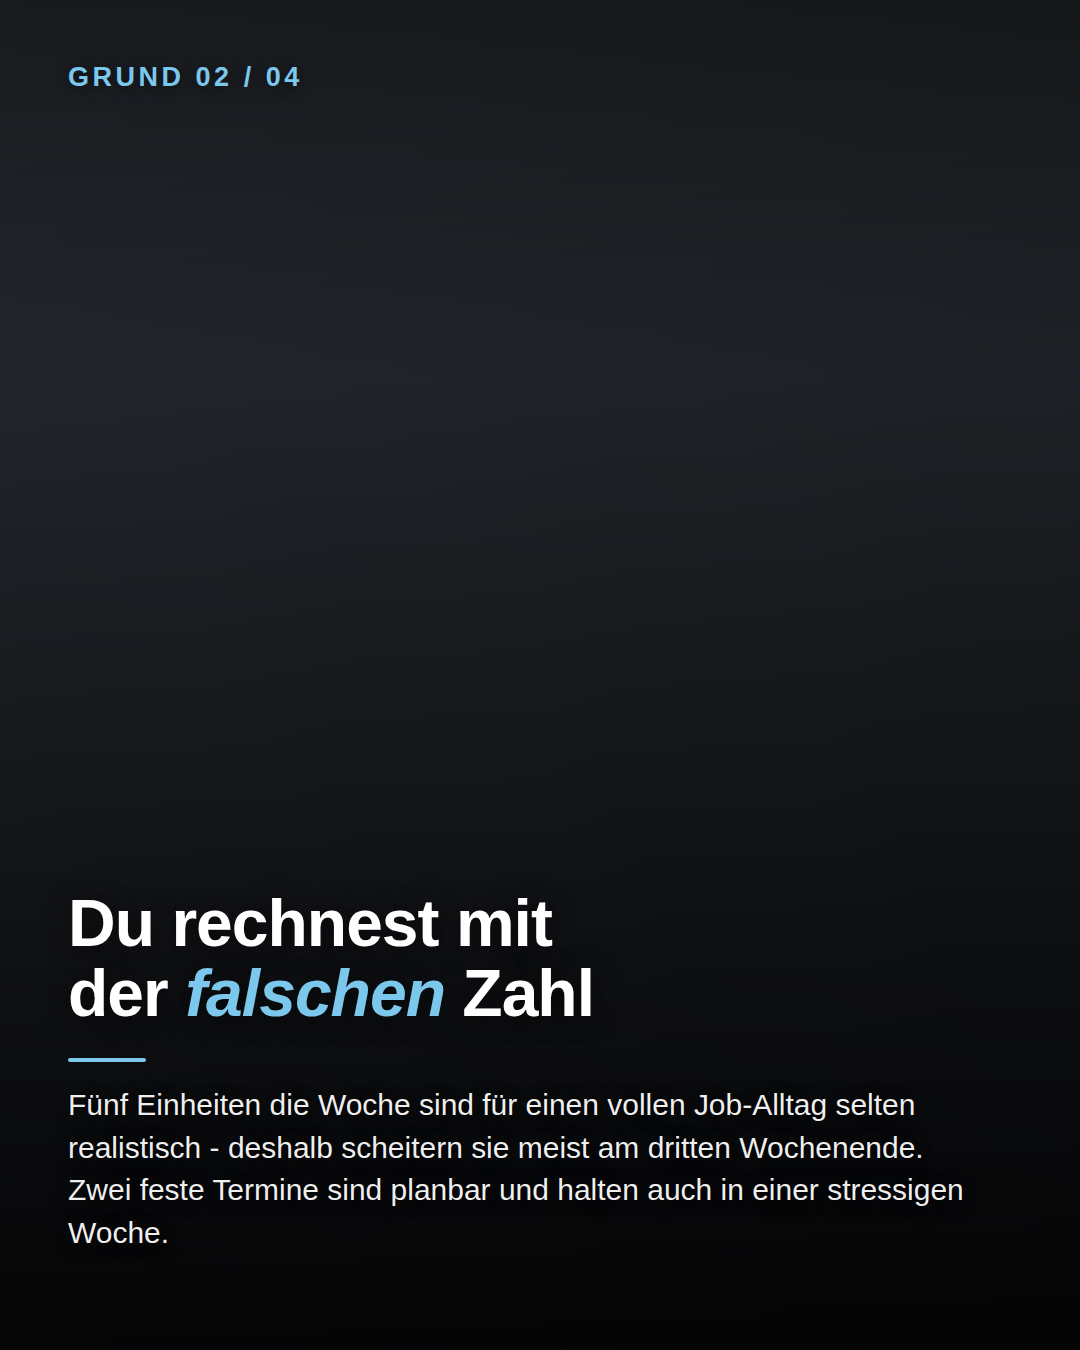
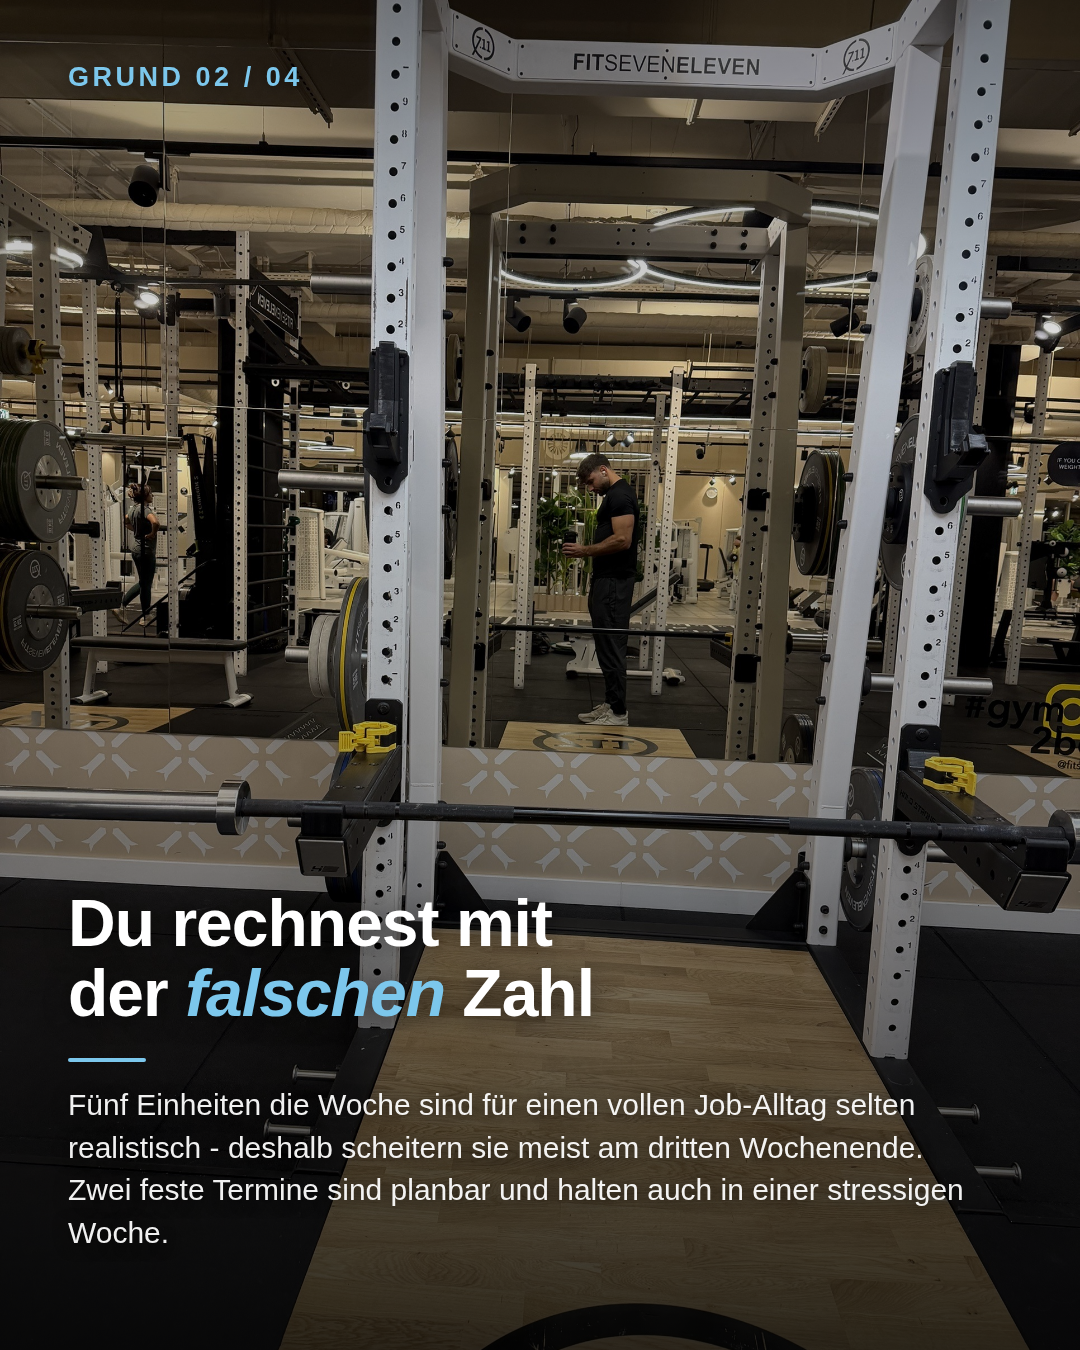
KW 39 nachgebessert: 30 Minuten, zwei Fotos, neuer Post-2-Titel
Post 1:
- Slide 4 nennt jetzt die 30-Minuten-Einheit statt 20 Minuten. 30 Minuten sind
  Aarons Minimum (config/profile.md, config/lessons.md vom 19.10.).
- Slide 3 (falsche Zahl) hatte gar kein Foto und lief auf grauem Verlauf.
  Jetzt: freies Rack im Gym, gym-rack-fitseveneleven.jpeg.
- Slide 5 (Kalender) lief auf einem Stock-Bild mit Handy und Notizbuch, das
  zum Thema nichts beitrug. Jetzt: das aufgebaute, leere Studio,
  studio-raum.jpeg — der geblockte Termin als Bild.
  Ein echtes Kalenderfoto gibt es im Pool nicht, und in Wikimedia/Openverse
  (CC0) kam zu "Kalender" nur mittelalterliche Buchmalerei.

Post 2:
- Cover heisst jetzt "3 Regeln fuers Auswaertsessen, wenn du abnehmen willst"
  statt "... die keine Woche ruinieren". Titel, Upload-Ordner, Review und
  Themen-Backlog mitgezogen.

Claude-Session: https://claude.ai/code/session_01HQCAC1gXM5ymEH3L17w63v

diff --git a/posts/2026-W39/post-1.md b/posts/2026-W39/post-1.md
@@ -22,9 +22,9 @@ verschwindet, ohne den Leser der Faulheit zu bezichtigen. Ziel: die Diagnose von
 |---|---|---|---|
 | 1 | `1/5` | Warum "keine Zeit" fast nie an der *Zeit* liegt. | Am Kartenautomaten, abends unterwegs |
 | 2 | `GRUND 01 / 04` | Es ist eine *Prioritäten*-Frage | Wohnzimmer mit Sofa am Abend (IMG_9811, eigenes Foto) |
-| 3 | `GRUND 02 / 04` | Du rechnest mit der *falschen* Zahl | KEIN PASSENDES FOTO |
+| 3 | `GRUND 02 / 04` | Du rechnest mit der *falschen* Zahl | Freies Rack im Gym, im Hintergrund trainiert jemand (eigenes Foto) |
 | 4 | `GRUND 03 / 04` | Der Umweg über die *Perfektion* | Bereitstehende Bank mit Handtuch im Gym (IMG_8261, eigenes Foto) |
-| 5 | `GRUND 04 / 04` | Am Ende zählt der *Kalender* | Handy, Notizbuch und Stift auf dem Schreibtisch — Foto: Stock (CC0, Wikimedia) |
+| 5 | `GRUND 04 / 04` | Am Ende zählt der *Kalender* | Aarons Studio, aufgebaut und leer (eigenes Foto) |
 
 **Foto-Begründungen:**
 
@@ -35,16 +35,19 @@ verschwindet, ohne den Leser der Faulheit zu bezichtigen. Ziel: die Diagnose von
    den Ort, an dem dieser Abend verbracht wird. Ersetzt das Stock-Bild mit dem
    Fernseher. (`IMG_9811.jpeg`)
 3. Grund 03 — Zu sehen: eine bereitstehende Bank mit Handtuch, Scheiben
-   aufgelegt. Slide: "Die 20-Minuten-Einheit, die tatsächlich stattfindet,
+   aufgelegt. Slide: "Die 30-Minuten-Einheit, die tatsächlich stattfindet,
    schlägt die 90-Minuten-Einheit, die nur geplant war." Das Foto zeigt genau
    die Einheit, die stattfindet. (`IMG_8261.jpeg`)
-4. Grund 04 — Zu sehen: Handy, Notizbuch und Stift auf einem Holztisch.
-   Slide: Termine, die wirklich im Kalender stehen. Bleibt Stock, weil im Pool
-   kein eigenes Kalender- oder Planer-Foto liegt. (`stock/frei-handy-01.jpeg`)
-5. Grund 02 — Weiterhin kein passendes Foto. Gebraucht würde eine gepackte
-   Sporttasche an der Wohnungstür oder ein Kalender mit zwei eingetragenen
-   Terminen. Beides liegt nicht im Pool; ein halb passendes Bild wäre hier
-   schlechter als der Verlauf.
+4. Grund 04 — Zu sehen: Aarons Studio, aufgebaut und leer, Tisch und Stuhl
+   stehen bereit. Slide: "Nicht die Absicht, sondern der Termin, der wirklich
+   im Kalender steht." Der Raum ist der geblockte Termin — er wartet, ob jemand
+   kommt oder nicht. Ersetzt das Stock-Bild mit Handy und Notizbuch, das zum
+   Thema Kalender nichts beigetragen hat. (`studio-raum.jpeg`)
+5. Grund 02 — Zu sehen: ein freies Rack im Gym, im Hintergrund trainiert
+   jemand. Slide: "Fünf Einheiten die Woche sind selten realistisch, zwei feste
+   Termine sind planbar." Das Foto zeigt die Einheit, die tatsächlich
+   eingeplant werden kann. Ersetzt den grauen Verlauf.
+   (`gym-rack-fitseveneleven.jpeg`)
 
 ## Caption
 
@@ -74,8 +77,8 @@ keine
 
 ## Offene Punkte
 
-- Slides 3 und 4 haben kein Foto und rendern auf grauem Verlauf. Was fehlt,
-  steht oben bei den Foto-Begründungen.
+- Jetzt sind alle fünf Slides bebildert, alle mit deinen eigenen Fotos. Die
+  beiden Stock-Bilder sind raus.
 - Grund 02 nennt "fünf Einheiten die Woche" als unrealistisch und "zwei feste
   Termine" als Alternative — das ist deine Coaching-Erfahrung, keine
   Studienaussage. Falls du andere Zahlen nennst, sag Bescheid.

diff --git a/FERTIG-ZUM-HOCHLADEN/2026-W39/REVIEW.md b/FERTIG-ZUM-HOCHLADEN/2026-W39/REVIEW.md
@@ -1,5 +1,27 @@
 # Review — Woche 2026-W39
 
+## Update 19.10.2026: Nachbesserungen auf deine Rückmeldung
+
+- **Post 1, Slide 4:** "20-Minuten-Einheit" → **30-Minuten-Einheit**. 30 Minuten
+  sind dein Minimum, 20 Minuten hätten deinen eigenen Ansatz unterboten
+  (steht seit dem 19.10. auch in `config/profile.md` und `config/lessons.md`).
+- **Post 1, Slide 3** (falsche Zahl) hatte gar kein Foto und rendert jetzt auf
+  einem freien Rack im Gym (`gym-rack-fitseveneleven.jpeg`).
+- **Post 1, Slide 5** (Kalender) lief auf einem Stock-Bild mit Handy und
+  Notizbuch, das zum Thema nichts beitrug. Jetzt: dein aufgebautes, leeres
+  Studio (`studio-raum.jpeg`) — der geblockte Termin als Bild.
+- **Post 2, Cover:** "3 Regeln fürs Auswärtsessen, die keine Woche ruinieren"
+  → **"3 Regeln fürs Auswärtsessen, wenn du abnehmen willst"**. Titel, Ordner
+  und Backlog-Eintrag sind mitgezogen.
+
+Ein eigenes Kalender- oder Planer-Foto gibt es im Pool weiterhin nicht, und in
+den freien Quellen (Wikimedia/Openverse, CC0) kam zu "Kalender" nichts
+Brauchbares — nur mittelalterliche Handschriften. Falls du mal einen Blick in
+deinen geblockten Wochenkalender fotografierst, wäre das für solche Slides das
+richtige Bild.
+
+Die Abschnitte unten beschreiben den Stand davor.
+
 ## Update 30.09.2026: Fotos neu zugeordnet
 
 Auf deine Vorgabe hin muss jedes Foto die Situation zeigen, über die der
@@ -26,7 +48,7 @@ Zwei Posts statt drei. Grund: der Fotopool ist praktisch leer — siehe unten.
 | Post | Thema | Warum |
 |---|---|---|
 | 1 | Warum "keine Zeit" fast nie an der Zeit liegt | Adressiert direkt die häufigste Selbstdiagnose der Zielgruppe ("keine Zeit für Training") und verschiebt sie auf Priorität statt Zeitmenge |
-| 2 | 3 Regeln fürs Auswärtsessen, die keine Woche ruinieren | Nimmt die Alles-oder-nichts-Angst vorm Essengehen — normaler Alltag der Zielgruppe, kein Sonderfall |
+| 2 | 3 Regeln fürs Auswärtsessen, wenn du abnehmen willst | Nimmt die Alles-oder-nichts-Angst vorm Essengehen — normaler Alltag der Zielgruppe, kein Sonderfall |
 
 Beide neu, unterschiedliche Kategorien (Zeit und Aufwand / Ernährung im
 Alltag), keine Überschneidung mit W35, W37 oder W38. Bewusst NICHT gewählt:

diff --git a/posts/2026-W39/_REVIEW.md b/posts/2026-W39/_REVIEW.md
@@ -1,5 +1,27 @@
 # Review — Woche 2026-W39
 
+## Update 19.10.2026: Nachbesserungen auf deine Rückmeldung
+
+- **Post 1, Slide 4:** "20-Minuten-Einheit" → **30-Minuten-Einheit**. 30 Minuten
+  sind dein Minimum, 20 Minuten hätten deinen eigenen Ansatz unterboten
+  (steht seit dem 19.10. auch in `config/profile.md` und `config/lessons.md`).
+- **Post 1, Slide 3** (falsche Zahl) hatte gar kein Foto und rendert jetzt auf
+  einem freien Rack im Gym (`gym-rack-fitseveneleven.jpeg`).
+- **Post 1, Slide 5** (Kalender) lief auf einem Stock-Bild mit Handy und
+  Notizbuch, das zum Thema nichts beitrug. Jetzt: dein aufgebautes, leeres
+  Studio (`studio-raum.jpeg`) — der geblockte Termin als Bild.
+- **Post 2, Cover:** "3 Regeln fürs Auswärtsessen, die keine Woche ruinieren"
+  → **"3 Regeln fürs Auswärtsessen, wenn du abnehmen willst"**. Titel, Ordner
+  und Backlog-Eintrag sind mitgezogen.
+
+Ein eigenes Kalender- oder Planer-Foto gibt es im Pool weiterhin nicht, und in
+den freien Quellen (Wikimedia/Openverse, CC0) kam zu "Kalender" nichts
+Brauchbares — nur mittelalterliche Handschriften. Falls du mal einen Blick in
+deinen geblockten Wochenkalender fotografierst, wäre das für solche Slides das
+richtige Bild.
+
+Die Abschnitte unten beschreiben den Stand davor.
+
 ## Update 30.09.2026: Fotos neu zugeordnet
 
 Auf deine Vorgabe hin muss jedes Foto die Situation zeigen, über die der
@@ -26,7 +48,7 @@ Zwei Posts statt drei. Grund: der Fotopool ist praktisch leer — siehe unten.
 | Post | Thema | Warum |
 |---|---|---|
 | 1 | Warum "keine Zeit" fast nie an der Zeit liegt | Adressiert direkt die häufigste Selbstdiagnose der Zielgruppe ("keine Zeit für Training") und verschiebt sie auf Priorität statt Zeitmenge |
-| 2 | 3 Regeln fürs Auswärtsessen, die keine Woche ruinieren | Nimmt die Alles-oder-nichts-Angst vorm Essengehen — normaler Alltag der Zielgruppe, kein Sonderfall |
+| 2 | 3 Regeln fürs Auswärtsessen, wenn du abnehmen willst | Nimmt die Alles-oder-nichts-Angst vorm Essengehen — normaler Alltag der Zielgruppe, kein Sonderfall |
 
 Beide neu, unterschiedliche Kategorien (Zeit und Aufwand / Ernährung im
 Alltag), keine Überschneidung mit W35, W37 oder W38. Bewusst NICHT gewählt:

diff --git a/posts/2026-W39/post-2.md b/posts/2026-W39/post-2.md
@@ -7,7 +7,7 @@ zielgruppen-schmerz: "Ich trainiere ja — warum passiert trotzdem nichts?"
 render: post-2.slides.json → post-2-slides/
 ---
 
-# 3 Regeln fürs Auswärtsessen, die keine Woche ruinieren
+# 3 Regeln fürs Auswärtsessen, wenn du abnehmen willst
 
 ## Warum dieses Thema
 
@@ -21,7 +21,7 @@ nächsten Tag.
 
 | # | Zähler | Headline | Foto |
 |---|---|---|---|
-| 1 | `1/4` | 3 Regeln fürs Auswärtsessen, die keine Woche *ruinieren*. | Aaron unterwegs mit Getränk in der Hand (DSC06682, eigenes Foto) |
+| 1 | `1/4` | 3 Regeln fürs Auswärtsessen, wenn du *abnehmen* willst. | Aaron unterwegs mit Getränk in der Hand (DSC06682, eigenes Foto) |
 | 2 | `REGEL 01 / 03` | Vorher nicht *hungrig* hinsetzen | Skyr mit Brombeeren in dunkler Schale — Foto: Stock (CC0, Wikimedia) |
 | 3 | `REGEL 02 / 03` | Eine *Entscheidung*, nicht der ganze Abend | Ein Stück Torte im Café — Foto: Stock (CC0, Wikimedia) |
 | 4 | `REGEL 03 / 03` | Der *nächste* Tag zählt mehr als der Abend | Normales Frühstück mit Toast, Saft und Kaffee — Foto: Stock (CC0, Wikimedia) |

diff --git a/config/themen-backlog.md b/config/themen-backlog.md
@@ -52,7 +52,7 @@ oben steht, wird zuerst genommen.
 | 2026-W38 | 4 Situationen im Bürotag, die dich ausbremsen | posts/2026-W38/post-1.md |
 | 2026-W38 | Motivation oder System | posts/2026-W38/post-2.md |
 | 2026-W39 | Warum "keine Zeit" fast nie an der Zeit liegt | posts/2026-W39/post-1.md |
-| 2026-W39 | 3 Regeln fürs Auswärtsessen, die keine Woche ruinieren | posts/2026-W39/post-2.md |
+| 2026-W39 | 3 Regeln fürs Auswärtsessen, wenn du abnehmen willst | posts/2026-W39/post-2.md |
 | 2026-W41 | Was du auf Geschäftsreise wirklich brauchst | posts/2026-W41/post-1.md |
 | 2026-W41 | 4 Wege, Bewegung in den Bürotag zu schmuggeln | posts/2026-W41/post-2.md |
 | 2026-W42 | 3 Frühstücke, die unter 5 Minuten fertig sind | posts/2026-W42/post-1.md |

diff --git a/config/foto-historie.md b/config/foto-historie.md
@@ -45,7 +45,8 @@ die neu verwendeten Dateien ein.
 
 | 2026-W39 | alltag-automat-abends.jpeg | P1 Cover |
 | 2026-W39 | stock/frei-bildschirm-03.jpeg | P1 Grund 01 (Prioritäten) |
-| 2026-W39 | stock/frei-handy-01.jpeg | P1 Grund 04 (Kalender) |
+| 2026-W39 | studio-raum.jpeg | P1 Grund 04 (Kalender), Nachbesserung 19.10. |
+| 2026-W39 | gym-rack-fitseveneleven.jpeg | P1 Grund 02 (falsche Zahl), Nachbesserung 19.10. |
 | 2026-W39 | stock/frei-restaurant-05.jpeg | P2 Cover |
 | 2026-W39 | stock/frei-skyr-02.jpeg | P2 Regel 01 |
 | 2026-W39 | stock/frei-kuchen-01.jpeg | P2 Regel 02 |

diff --git a/FERTIG-ZUM-HOCHLADEN/2026-W39/UEBERSICHT.md b/FERTIG-ZUM-HOCHLADEN/2026-W39/UEBERSICHT.md
@@ -4,6 +4,6 @@ Zwei Posts, fertig zum Hochladen. Je Post ein Ordner mit den
 Slides in Reihenfolge und der Caption als Textdatei.
 
 - **1 — Warum "keine Zeit" fast nie an der Zeit liegt** · 5 Slides  ⚠ siehe NOCH-ZU-PRUEFEN.txt
-- **2 — 3 Regeln fürs Auswärtsessen, die keine Woche ruinieren** · 4 Slides  ⚠ siehe NOCH-ZU-PRUEFEN.txt
+- **2 — 3 Regeln fürs Auswärtsessen, wenn du abnehmen willst** · 4 Slides  ⚠ siehe NOCH-ZU-PRUEFEN.txt
 
 Was du prüfen musst, steht in REVIEW.md.
